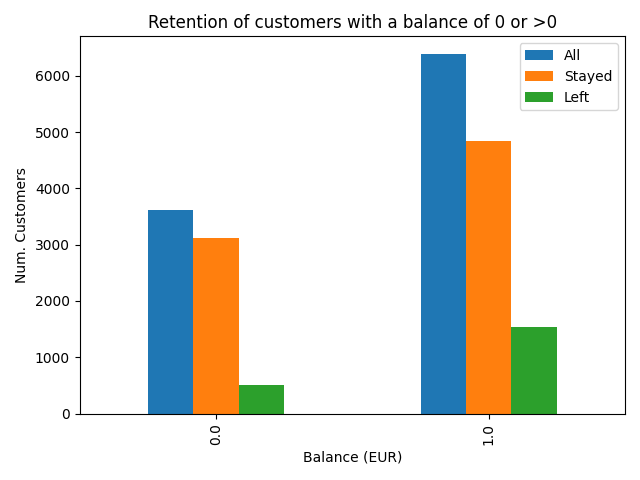
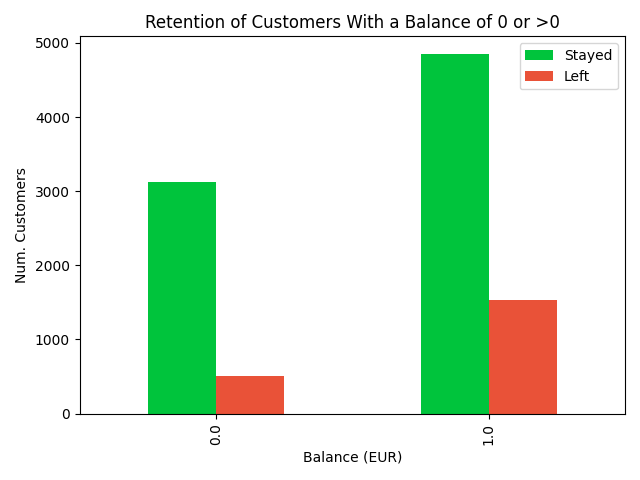
Updated graphs to new colour format

diff --git a/src/main.py b/src/main.py
@@ -7,9 +7,8 @@ from model import MachineLearningModel
 
 def perform_data_analysis():
     """
-    This function loads in the churn customer 
-    data and creates a DataAnalysis object
-    for gaining insights to the data. 
+    This function loads in the churn customer data and creates a DataAnalysis
+    object for gaining insights to the data. 
     """
     dataloader = DataLoader("customer_data.xlsx")
     customer_data = dataloader.load_and_clean()
@@ -27,12 +26,12 @@ def perform_data_analysis():
 
     customer_num = customer_data[numerical_cols]
 
-    # # Output descriptions for both the numerical and categorical data
+    # Output descriptions for both the numerical and categorical data
     print(f"Numerical Customer Data Description: {customer_num.describe()}\n")
     print(f"Categorical Customer Data Description: \
           {customer_cat.describe(exclude=['int64', 'float64'])}\n")
 
-    # # Get ratio of ground truth labels
+    # Get ratio of ground truth labels
     print(f"Ratio of exited vs stayed in data: \
           {customer_data['Exited'].value_counts()}\n")
 
@@ -51,16 +50,15 @@ def perform_data_analysis():
     data_analysis.compare_ratio_of_exited(customer_data, "EstimatedSalary",
                                                title, save_name)
 
-    # Output the mean age for those that have left the company and those haven't
-    data_analysis.compare_mean_against_existed(customer_data, 'Age')
+    # Output mean age for those that have and have not left the company
+    data_analysis.compare_mean_against_exited(customer_data, 'Age')
 
 
 def perform_model_training():
     """
-    This function loads in the churn customer
-    data and creates a MachineLearningModel
-    object in order to train a classifier on 
-    the data and evaluate its results. 
+    This function loads in the churn customer data and creates a
+    MachineLearningModel object in order to train a classifier on the data and
+    evaluate its results. 
     """
     # Load and clean the data
     dataloader = DataLoader("customer_data.xlsx")
@@ -74,9 +72,8 @@ def perform_model_training():
     sentiment_data = dataloader.apply_sentiment_analysis(encoded_data,
                                                          ['CustomerFeedback'])
 
-    # Remove columns that cannot be easily converted
-    # to a type the model can extract
-    # meaningful information from
+    # Remove columns that cannot be easily converted to a type the model can
+    # extract meaningful information from
     drop_cols = ['RowNumber', 'CustomerId', 'Surname']
     reduced_data = sentiment_data.drop(columns=drop_cols)
 
@@ -104,6 +101,6 @@ def perform_model_training():
 
 if __name__ == "__main__":
 
-    #perform_data_analysis()
+    perform_data_analysis()
 
-    perform_model_training()
+    #perform_model_training()

diff --git a/src/data_analysis.py b/src/data_analysis.py
@@ -15,12 +15,12 @@ class DataAnalysis():
     This class allows a user to create graphical evaluations of input data. 
 
     Methods:
-        * compare_mean_against_existed
+        * compare_mean_against_exited
         * compare_ratio_of_exited
         * group_box_plot
     """
 
-    def compare_mean_against_existed(self, cust_data, col):
+    def compare_mean_against_exited(self, cust_data, col):
         """
         Takes a column name in the database and takes the mean of the value for
         both those that exited and those that remained. This allows for

diff --git a/README.md b/README.md
@@ -58,7 +58,7 @@ while those with a lower balance are more likely to stay.
     Command: 
             
             customer_data['EstimatedSalary'] = customer_data['EstimatedSalary'].round(decimals=-4)
-            data_analysis.compare_mode_against_existed(customer_data, "EstimatedSalary")
+            data_analysis.compare_ratio_of_exited(customer_data, "EstimatedSalary")
 
 
 * It is expected that the longer the customer is with the service the more
@@ -70,7 +70,7 @@ while those with a lower balance are more likely to stay.
     
     Command: 
         
-        data_analysis.compare_mode_against_existed(customer_data, "Tenure")
+        data_analysis.compare_ratio_of_exited(customer_data, "Tenure")
 
 * Customers are more likely to leave the server once their balance becomes >0. This is 
         likely due to the fact that those without money in the account or "ghost" users who
@@ -81,7 +81,7 @@ while those with a lower balance are more likely to stay.
     Command:
             
             customer_data['Balance (EUR)'].values[customer_data['Balance (EUR)'].values > 0] = 1
-            data_analysis.compare_mode_against_existed(customer_data, "Balance (EUR)", title, save_name)
+            data_analysis.compare_ratio_of_exited(customer_data, "Balance (EUR)", title, save_name)
 
 * It is interesting that regardless of how active a user is with a balance of 0, they are just as
         likely to stay as they are to leave. 
@@ -91,9 +91,9 @@ while those with a lower balance are more likely to stay.
     Command:
     
             customer_data['Balance (EUR)'].values[customer_data['Balance (EUR)'].values > 0] = 1
-            data_analysis.compare_mode_against_existed(customer_data, "IsActiveMember", title, save_name)
+            data_analysis.compare_ratio_of_exited(customer_data, "IsActiveMember", title, save_name)
 
-        (in compare_mode_against_existed)
+        (in compare_ratio_of_exited)
 
             customer_stayed = cust_data[(cust_data['Balance (EUR)'] == 0) & (cust_data['Exited']==0)]
             customer_exited = cust_data[(cust_data['Balance (EUR)'] == 0) & (cust_data['Exited']==1)]
